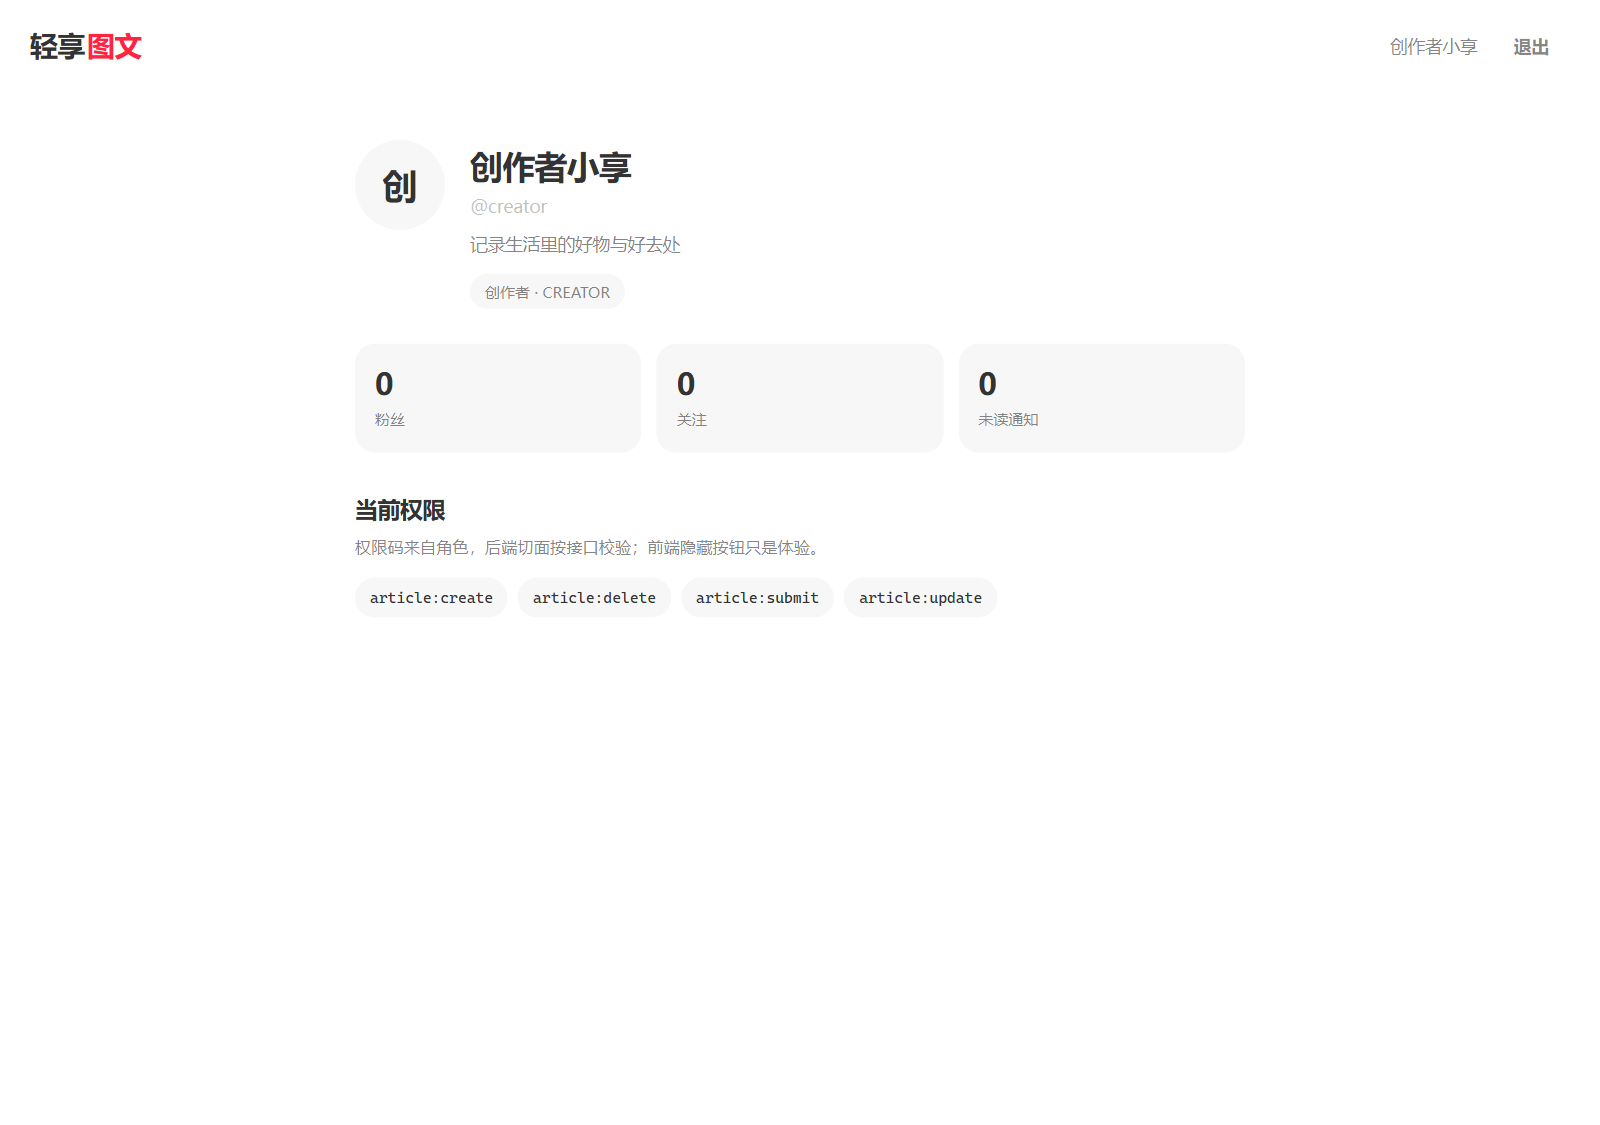
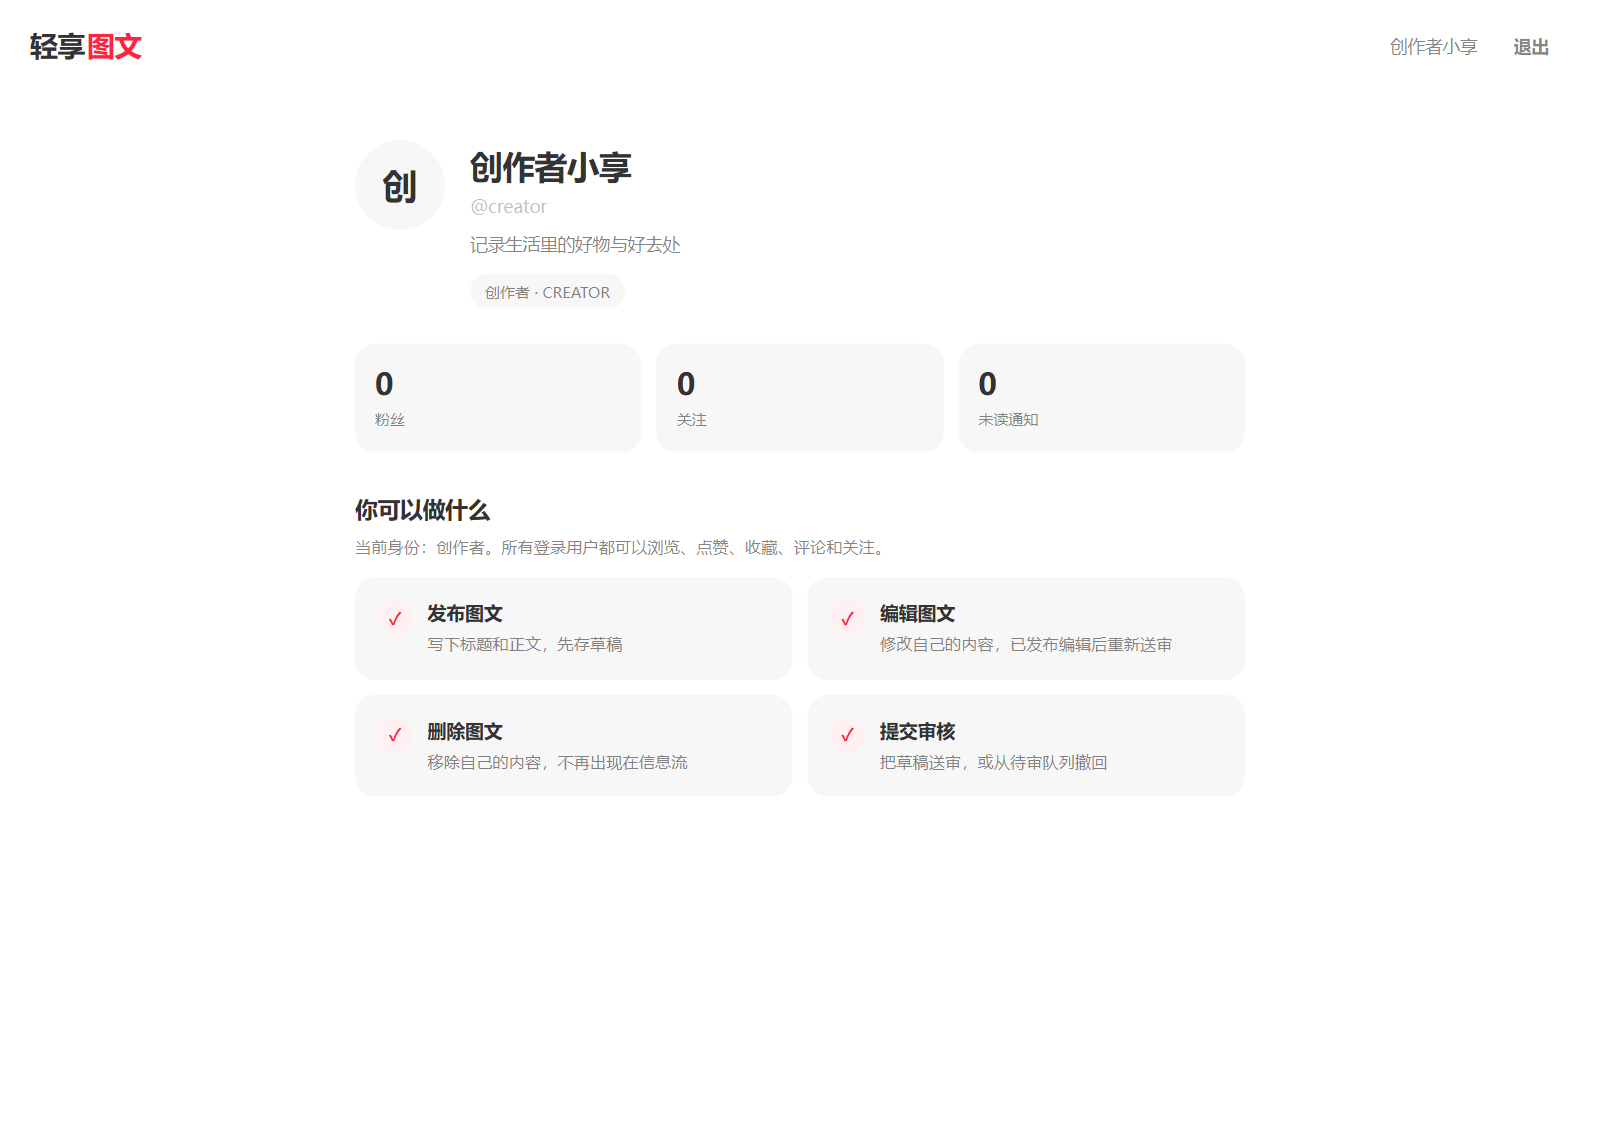
feat(auth): 注册后自动登录，账号页改为能力卡片
- 注册成功直接建立会话，跳转 /me，不再二次登录
- 权限码翻译成「你可以做什么」卡片，页面不再展示技术码
- 页面术语“口令”统一改为“密码”
- 更新截图与成员 A 开发文档

diff --git a/src/main/webapp/static/css/app.css b/src/main/webapp/static/css/app.css
@@ -392,26 +392,49 @@ input {
     color: var(--fg-dim);
 }
 
-.perm-list {
-    display: flex;
-    flex-wrap: wrap;
-    gap: 8px;
+.cap-grid {
+    display: grid;
+    grid-template-columns: repeat(2, minmax(0, 1fr));
+    gap: 12px;
     margin: 0;
     padding: 0;
     list-style: none;
 }
 
-.perm-list li {
-    padding: 7px 12px;
-    border-radius: var(--radius-pill);
+.cap-card {
+    display: flex;
+    align-items: flex-start;
+    gap: 12px;
+    padding: 18px;
+    border-radius: var(--radius-media);
     background: var(--fill);
-    font-family: "Cascadia Mono", Consolas, monospace;
-    font-size: 12px;
-    color: var(--fg);
 }
 
-.perm-list li.empty {
-    font-family: var(--font);
+.cap-mark {
+    flex: 0 0 auto;
+    display: flex;
+    align-items: center;
+    justify-content: center;
+    width: 28px;
+    height: 28px;
+    border-radius: 50%;
+    background: #fff0f2;
+    color: var(--brand);
+    font-size: 14px;
+    font-weight: 700;
+}
+
+.cap-card strong {
+    display: block;
+    font-size: 15px;
+    font-weight: 600;
+    line-height: 1.4;
+}
+
+.cap-card p {
+    margin: 4px 0 0;
+    font-size: 13px;
+    line-height: 1.55;
     color: var(--fg-dim);
 }
 
@@ -493,6 +516,10 @@ input {
 
     .stat strong {
         font-size: 20px;
+    }
+
+    .cap-grid {
+        grid-template-columns: 1fr;
     }
 }
 

diff --git a/src/main/java/com/qingxiang/util/PermissionCatalog.java b/src/main/java/com/qingxiang/util/PermissionCatalog.java
@@ -1,0 +1,55 @@
+package com.qingxiang.util;
+
+import com.qingxiang.vo.CapabilityVO;
+
+import java.util.ArrayList;
+import java.util.LinkedHashMap;
+import java.util.List;
+import java.util.Map;
+
+/**
+ * 把权限码翻译成账号页的能力卡片；API 仍返回原始 code，只有页面用它做友好展示。
+ */
+public final class PermissionCatalog {
+
+    private static final Map<String, CapabilityVO> BY_CODE = new LinkedHashMap<>();
+    private static final List<CapabilityVO> READER = List.of(
+            new CapabilityVO("浏览发现", "看已发布的图文，按分类和关键词找内容"),
+            new CapabilityVO("点赞收藏", "喜欢就点亮，收藏随时回看"),
+            new CapabilityVO("评论回复", "参与讨论，支持一层回复"),
+            new CapabilityVO("关注作者", "在关注流里追更"),
+            new CapabilityVO("站内通知", "审核、评论、点赞等提醒"));
+
+    static {
+        BY_CODE.put("article:create", new CapabilityVO("发布图文", "写下标题和正文，先存草稿"));
+        BY_CODE.put("article:update", new CapabilityVO("编辑图文", "修改自己的内容，已发布编辑后重新送审"));
+        BY_CODE.put("article:delete", new CapabilityVO("删除图文", "移除自己的内容，不再出现在信息流"));
+        BY_CODE.put("article:submit", new CapabilityVO("提交审核", "把草稿送审，或从待审队列撤回"));
+        BY_CODE.put("article:review", new CapabilityVO("审核图文", "通过或驳回待审内容，并写明理由"));
+        BY_CODE.put("article:batch", new CapabilityVO("批量审核", "一次处理多条待审内容，失败项保持原状"));
+        BY_CODE.put("article:unpublish", new CapabilityVO("下架与上架", "下架不合规内容，处理后可重新上架"));
+        BY_CODE.put("comment:manage", new CapabilityVO("评论治理", "隐藏或删除违规评论"));
+        BY_CODE.put("category:manage", new CapabilityVO("分类管理", "维护多级分类、排序与启停"));
+        BY_CODE.put("user:manage", new CapabilityVO("用户管理", "查询账号、调整角色、停用或删除"));
+        BY_CODE.put("log:view", new CapabilityVO("查看日志", "按时间、操作人、动作查治理记录"));
+    }
+
+    private PermissionCatalog() {
+    }
+
+    /**
+     * 没有任何管理权限码时，展示阅读者日常能做的事；否则只展示这个角色多出来的能力。
+     */
+    public static List<CapabilityVO> describe(List<String> codes) {
+        if (codes == null || codes.isEmpty()) {
+            return READER;
+        }
+        List<CapabilityVO> result = new ArrayList<>();
+        BY_CODE.forEach((code, capability) -> {
+            if (codes.contains(code)) {
+                result.add(capability);
+            }
+        });
+        return result.isEmpty() ? READER : result;
+    }
+}

diff --git a/src/main/java/com/qingxiang/service/AuthService.java b/src/main/java/com/qingxiang/service/AuthService.java
@@ -24,7 +24,7 @@ import java.util.Objects;
 import java.util.Set;
 
 /**
- * 注册与登录：口令只以 BCrypt 形态落库；登录结果由控制器写入会话。
+ * 注册与登录：密码只以 BCrypt 形态落库；登录结果由控制器写入会话。
  */
 @Service
 public class AuthService {
@@ -79,12 +79,12 @@ public class AuthService {
         return vo;
     }
 
-    /** 校验口令与账号状态，返回会话所需的登录态。 */
+    /** 校验密码与账号状态，返回会话所需的登录态。 */
     public LoginResult login(LoginRequest request) {
         String username = request.getUsername() == null ? "" : request.getUsername().trim();
         SysUser user = userService.findByUsername(username);
         if (user == null || !PasswordUtil.matches(request.getPassword(), user.getPassword())) {
-            throw new BusinessException(401, "用户名或口令不正确");
+            throw new BusinessException(401, "用户名或密码不正确");
         }
         if (!Objects.equals(user.getStatus(), 1)) {
             throw new BusinessException(403, "账号已停用，请联系审核者");

diff --git a/src/main/java/com/qingxiang/controller/page/AuthPageController.java b/src/main/java/com/qingxiang/controller/page/AuthPageController.java
@@ -65,6 +65,7 @@ public class AuthPageController {
     @PostMapping("/register")
     public String register(@Valid @ModelAttribute("form") RegisterRequest form,
                            BindingResult binding,
+                           HttpServletRequest request,
                            Model model) {
         if (binding.hasErrors()) {
             var error = binding.getFieldError();
@@ -73,7 +74,14 @@ public class AuthPageController {
         }
         try {
             authService.register(form);
-            return "redirect:/login?registered=1";
+
+            // 注册成功直接建立会话，不再让用户回登录页重输一次
+            LoginRequest loginRequest = new LoginRequest();
+            loginRequest.setUsername(form.getUsername());
+            loginRequest.setPassword(form.getPassword());
+            LoginResult result = authService.login(loginRequest);
+            SessionUtil.start(request, result.loginUser());
+            return "redirect:/me";
         } catch (BusinessException e) {
             model.addAttribute("error", e.getMessage());
             return "register";

diff --git a/src/main/java/com/qingxiang/controller/page/MePageController.java b/src/main/java/com/qingxiang/controller/page/MePageController.java
@@ -4,6 +4,7 @@ import com.qingxiang.dto.LoginUser;
 import com.qingxiang.service.AuthService;
 import com.qingxiang.util.CsrfUtil;
 import com.qingxiang.util.CurrentUser;
+import com.qingxiang.util.PermissionCatalog;
 import org.springframework.stereotype.Controller;
 import org.springframework.ui.Model;
 import org.springframework.web.bind.annotation.GetMapping;
@@ -26,7 +27,9 @@ public class MePageController {
     public String me(HttpServletRequest request, Model model) {
         LoginUser loginUser = CurrentUser.get();
         String csrfToken = CsrfUtil.ensure(request.getSession(true));
-        model.addAttribute("account", authService.profile(loginUser, csrfToken));
+        var account = authService.profile(loginUser, csrfToken);
+        model.addAttribute("account", account);
+        model.addAttribute("capabilities", PermissionCatalog.describe(account.getPermissions()));
         return "me";
     }
 }

diff --git a/src/main/java/com/qingxiang/dto/RegisterRequest.java b/src/main/java/com/qingxiang/dto/RegisterRequest.java
@@ -13,8 +13,8 @@ public class RegisterRequest {
     @Pattern(regexp = "^[A-Za-z0-9_]{4,50}$", message = "用户名需为 4–50 位字母、数字或下划线")
     private String username;
 
-    @NotBlank(message = "请输入口令")
-    @Size(min = 6, max = 72, message = "口令长度需为 6–72 位")
+    @NotBlank(message = "请输入密码")
+    @Size(min = 6, max = 72, message = "密码长度需为 6–72 位")
     private String password;
 
     @NotBlank(message = "请输入昵称")

diff --git a/src/main/java/com/qingxiang/vo/CapabilityVO.java b/src/main/java/com/qingxiang/vo/CapabilityVO.java
@@ -1,0 +1,19 @@
+package com.qingxiang.vo;
+
+import lombok.Getter;
+
+/**
+ * 账号页的能力卡片：把权限码翻译成用户能看懂的一句话。
+ */
+@Getter
+public class CapabilityVO {
+
+    private final String title;
+
+    private final String description;
+
+    public CapabilityVO(String title, String description) {
+        this.title = title;
+        this.description = description;
+    }
+}

diff --git a/src/main/java/com/qingxiang/util/PasswordUtil.java b/src/main/java/com/qingxiang/util/PasswordUtil.java
@@ -3,7 +3,7 @@ package com.qingxiang.util;
 import org.springframework.security.crypto.bcrypt.BCryptPasswordEncoder;
 
 /**
- * 口令散列：BCrypt cost 10。BCrypt 自带随机盐，数据库 salt 列只作兼容位。
+ * 密码散列：BCrypt cost 10。BCrypt 自带随机盐，数据库 salt 列只作兼容位。
  */
 public final class PasswordUtil {
 

diff --git a/src/main/java/com/qingxiang/dto/LoginUser.java b/src/main/java/com/qingxiang/dto/LoginUser.java
@@ -7,7 +7,7 @@ import java.io.Serializable;
 import java.util.Set;
 
 /**
- * 会话里的登录态：只放展示与鉴权必需字段，不放口令。
+ * 会话里的登录态：只放展示与鉴权必需字段，不放密码。
  */
 @Getter
 public class LoginUser implements Serializable {

diff --git a/src/main/java/com/qingxiang/dto/LoginRequest.java b/src/main/java/com/qingxiang/dto/LoginRequest.java
@@ -10,6 +10,6 @@ public class LoginRequest {
     @NotBlank(message = "请输入用户名")
     private String username;
 
-    @NotBlank(message = "请输入口令")
+    @NotBlank(message = "请输入密码")
     private String password;
 }

diff --git a/docs/开发文档-成员A.md b/docs/开发文档-成员A.md
@@ -12,7 +12,7 @@
 
 ## 1. 模块概述
 
-- **负责范围**：注册 / 登录 / 退出、BCrypt 口令、session + CSRF、三角色 RBAC、Spring AOP 接口权限；后续切片补用户管理、操作日志、站内通知、个人资料。
+- **负责范围**：注册 / 登录 / 退出、BCrypt 密码、session + CSRF、三角色 RBAC、Spring AOP 接口权限；后续切片补用户管理、操作日志、站内通知、个人资料。
 - **不负责的范围**：文章 / 分类 / 审核（B）；点赞 / 收藏 / 评论 / 关注（C）；头像与正文图片落盘（B 的 `FileStorageService`）。
 - **依赖的模块 / 契约**：切片 1 无上游依赖；B/C 依赖我提供的 `Result`、`LoginUser`、`CurrentUser`、`@RequirePermission`、`PermissionAspect`、`CsrfUtil`。
 - **对外提供的接口 / 服务**：`/api/v1/auth/**`（注册、登录、退出、当前用户、刷新 CSRF）；`/login`、`/register`、`/me` 页面；`AuthService` / `UserService`。
@@ -24,19 +24,20 @@
 
 | 编号 | 角色 | 场景 | 前置条件 | 结果 |
 |---|---|---|---|---|
-| UC-A-01 | 匿名 | 注册账号 | 用户名未被占用 | 建 `CREATOR` 账号，跳转登录 |
-| UC-A-02 | 匿名 | 登录 | 账号存在、口令正确、状态正常 | 写 session，轮换 CSRF，进入账号页 |
+| UC-A-01 | 匿名 | 注册账号 | 用户名未被占用 | 建 `CREATOR` 账号，自动登录并进入账号页 |
+| UC-A-02 | 匿名 | 登录 | 账号存在、密码正确、状态正常 | 写 session，轮换 CSRF，进入账号页 |
 | UC-A-03 | 登录用户 | 退出 | 已登录 | session 失效，回登录页 |
-| UC-A-04 | 登录用户 | 访问 `/me` | 会话有效 | 展示昵称、角色、权限码 |
+| UC-A-04 | 登录用户 | 访问 `/me` | 会话有效 | 展示昵称、角色与「你可以做什么」能力卡片 |
 | UC-A-05 | 匿名 | 访问 `/me` | 未登录 | 页面 302 `/login`；`/api/**` 返回 401 JSON |
 | UC-A-06 | 登录用户 | 提交写请求 | 没带 CSRF token | 403「页面已过期」 |
 | UC-A-07 | 登录用户 | 会话版本失效 | 账号 `session_version` 变化 | 下一次请求被判定未登录 |
 
 ### 2.2 验收标准
 
-- [x] 注册默认创作者；用户名唯一；口令 BCrypt 落库。
+- [x] 注册默认创作者；用户名唯一；密码 BCrypt 落库。
+- [x] 注册成功直接建立会话，跳转 `/me`，不再二次登录。
 - [x] 登录成功返回用户、权限码、64 位十六进制 CSRF token。
-- [x] 口令错误 401、账号停用 403、用户名重复 400，文案面向用户。
+- [x] 密码错误 401、账号停用 403、用户名重复 400，文案面向用户。
 - [x] 页面未登录 302、API 未登录 401；写请求缺 token 403。
 - [x] `session_version` 变化后旧会话立即失效（实测 401，重登后恢复）。
 - [x] `mvn -B clean test` 全绿；主链路 curl 冒烟通过。
@@ -127,7 +128,7 @@ erDiagram
 }
 ```
 
-错误：400（缺字段）、401（口令错误）、403（账号停用）。
+错误：400（缺字段）、401（密码错误）、403（账号停用）。
 
 #### `POST /api/v1/auth/register`
 
@@ -174,13 +175,13 @@ erDiagram
 - 事务边界：`AuthService.register` 为 `@Transactional`；登录只读 + 不写库。
 - 条件更新 / 乐观锁：本切片无状态流转；`session_version` 由后续改密 / 改角色 +1。
 - 幂等 / 唯一键：`uk_username` 兜底并发注册；重复提交返回 400。
-- 失败回滚：注册失败不落库；口令错误只记 401，不泄露账号是否存在。
+- 失败回滚：注册失败不落库；密码错误只记 401，不泄露账号是否存在。
 
 ### 5.4 异常与日志
 
 - 业务异常码：400 / 401 / 403 / 404 / 409 / 500，统一 `BusinessException` → 双出口。
 - 日志记录点：切面与拦截器不写业务日志；`operation_log` 写入在切片 2。
-- 不记录的内容：口令、CSRF token、完整堆栈。
+- 不记录的内容：密码、CSRF token、完整堆栈。
 
 ## 6. 前端实现
 
@@ -190,12 +191,12 @@ erDiagram
 |---|---|---|
 | 登录 | `/login` | 胶囊输入、错误提示在表单上方 |
 | 注册 | `/register` | 三项校验，失败保留输入 |
-| 账号中心 | `/me` | 昵称 / 角色 / 粉丝关注 / 权限码 |
+| 账号中心 | `/me` | 昵称 / 角色 / 粉丝关注 / 能力卡片 |
 | 错误 | `/error` | 人话提示 + 返回首页 |
 
 ### 6.2 交互
 
-- 加载 / 空态 / 错误态：错误用 `role="alert"`；权限为空时显示「阅读权限，无需管理权限码」。
+- 加载 / 空态 / 错误态：错误用 `role="alert"`；没有管理权限时展示阅读者的能力卡片（浏览、点赞收藏、评论回复、关注、通知）。
 - 表单校验：服务端 `@Valid` + 页面 BindingResult；失败保留已填用户名。
 - 防抖 / 取消请求：M1 无前端 JS 请求。
 - 响应式：560px 以下单列，头像与字号收缩。
@@ -213,9 +214,9 @@ erDiagram
 
 | 编号 | 类型 | 场景 | 预期 | 结果 |
 |---|---|---|---|---|
-| T-01 | 单元 | BCrypt 编码与匹配 | 匹配、错口令拒绝 | PASS |
-| T-02 | 单元 | 同口令不同盐 | 两次哈希不同 | PASS |
-| T-03 | 单元 | 空值口令 | 不匹配 | PASS |
+| T-01 | 单元 | BCrypt 编码与匹配 | 匹配、错密码拒绝 | PASS |
+| T-02 | 单元 | 同密码不同盐 | 两次哈希不同 | PASS |
+| T-03 | 单元 | 空值密码 | 不匹配 | PASS |
 | T-04 | 单元 | CSRF 轮换 | 64 位 hex 且入 session | PASS |
 | T-05 | 单元 | CSRF 保留 | `ensure` 复用旧 token | PASS |
 | T-06 | 单元 | 连续轮换 | 两次 token 不同 | PASS |
@@ -227,7 +228,7 @@ erDiagram
 | T-12 | 单元 | 切面 403 | 已登录但无权限码 | PASS |
 | T-13 | 单元 | 切面放行 | 有权限码并执行原方法 | PASS |
 | T-14 | 单元 | 登录成功 | 返回角色、权限、session 版本 | PASS |
-| T-15 | 单元 | 错误口令 | 401 | PASS |
+| T-15 | 单元 | 错误密码 | 401 | PASS |
 | T-16 | 单元 | 停用账号 | 403 | PASS |
 | T-17 | 单元 | 用户名重复 | 400 | PASS |
 | T-18 | 单元 | 注册成功 | 建 CREATOR 账号 | PASS |
@@ -240,8 +241,8 @@ erDiagram
   - 登录 200，返回 4 个权限码 + 64 位 token；
   - `/api/v1/auth/me` 带 Cookie 200、不带 401；
   - 退出缺 `X-CSRF-Token` 403、带 token 200，之后 `me` 401；
-  - 注册 200、重复注册 400、错口令 401；
-  - 页面 `/me` 未登录 302 `/login`，登录后 200 且渲染权限码；
+  - 注册 200、重复注册 400、错密码 401；
+  - 页面 `/me` 未登录 302 `/login`，登录后 200 且渲染「你可以做什么」卡片；
   - `UPDATE sys_user SET session_version=1` 后旧会话 401，重登后 200。
 
 ### 7.3 发现的问题
@@ -269,7 +270,9 @@ erDiagram
 
 | 日期 | 增量 | 表 / 接口 / 页面 | 测试 | Commit |
 |---|---|---|---|---|
-| 2026-11-18 | 切片 1：登录 / 注册 / RBAC 骨架 | 5 张表；`/auth/**`；登录 / 注册 / `/me` 页面 | 18 个单元用例 + curl 冒烟 | 本分支提交 |
+| 2026-11-18 | 切片 1：登录 / 注册 / RBAC 骨架 | 5 张表；`/auth/**`；登录 / 注册 / `/me` 页面 | 18 个单元用例 + curl 冒烟 | `1f47c66` |
+| 2026-11-18 | 注册后自动登录 | `AuthPageController` 注册成功写 session；移除登录页“请登录”提示 | curl 表单注册 302 `/me`，带 Cookie 访问 200 | 本次提交 |
+| 2026-11-18 | 账号页友好化 | 权限码翻译成「你可以做什么」卡片；页面术语“口令”统一改为“密码” | 页面渲染检查 + 截图更新 | 本次提交 |
 
 ## 11. 自评与答辩
 
@@ -287,8 +290,8 @@ erDiagram
 
 ### 11.3 5 分钟演示步骤
 
-1. 打开 `/login`，用 `creator/123456` 登录，展示账号页与 4 个权限码。
-2. 打开 `/me`，退出，再用错口令登录，展示 401 文案。
+1. 打开 `/login`，用 `creator/123456` 登录，展示账号页与 4 张能力卡片。
+2. 打开 `/me`，退出，再用错密码登录，展示 401 文案。
 3. 用 curl 演示 `/api/v1/auth/me` 带 / 不带 Cookie 的 200 / 401。
 4. 演示改 `session_version` 后旧会话立即 401。
 5. 展示 `PermissionAspectTest` 覆盖的 401 / 403 / 放行。
@@ -296,6 +299,6 @@ erDiagram
 ## 12. 附录
 
 - SQL：`sql/01_core.sql`、`sql/04_seed.sql`。
-- curl：见 7.2；演示账号 `reviewer / creator / reader`，口令 `123456`。
+- curl：见 7.2；演示账号 `reviewer / creator / reader`，密码 `123456`。
 - 截图：`docs/screenshots/auth/`。
 - 相关文档：`docs/接口文档.md` 第 2 章、`docs/开发规范.md` 第 5 章。
